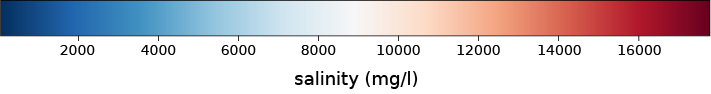
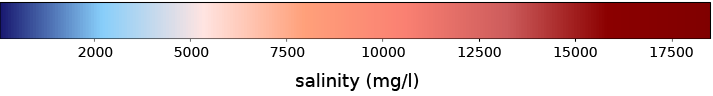
colormap update salinity concentrations
- Changed colormap (LinearSegmented colormap to shift the colors left of the center and to remove transparancy in the center for projection)
- updated colorbar figure accordingly
- cmaps and norms are now stored as a dictionary in the visualization tracker

diff --git a/game/game_visualizations.py b/game/game_visualizations.py
@@ -12,7 +12,7 @@ from PyQt5.QtGui import QFont
 
 from matplotlib.backends.backend_qtagg import FigureCanvas
 from matplotlib.figure import Figure
-from matplotlib.colors import LinearSegmentedColormap, BoundaryNorm
+from matplotlib.colors import LinearSegmentedColormap
 from pandas import to_datetime
 from functools import partial
 
@@ -71,7 +71,8 @@ class ApplicationWindow(QMainWindow):
         self.figure_layout.addWidget(self.model_canvas, stretch=1)
 
         self.colorbar_label = QLabel(self._main)
-        self.colorbar_label.setPixmap(self.salinity_colorbar_image)
+        #self.colorbar_label.setPixmap(self.salinity_colorbar_image)
+        self.colorbar_label.setPixmap(self.salinity_category_image)
         self.colorbar_label.resize(self.salinity_colorbar_image.width(), self.salinity_colorbar_image.height())
         self.figure_layout.addWidget(self.colorbar_label, alignment=Qt.AlignCenter)
 
@@ -152,12 +153,13 @@ class ApplicationWindow(QMainWindow):
         idx = self.running_simulation["time"] == t
         self.plot_data = self.running_simulation[idx]
         set_variable = self.selected_variable + "_" + self.viz_tracker.sim_type
-        self.plot_data.plot(column=set_variable, ax=self.ax, cmap="RdBu_r", markersize=150.0)
+        self.plot_data.plot(column=set_variable, ax=self.ax, cmap=self.viz_tracker.cmaps[self.selected_variable],
+                            markersize=150.0)
 
         pcs = [child for child in self.ax.get_children() if isinstance(child, matplotlib.collections.PathCollection)]
         assert len(pcs) == 1, "expected 1 pathcollection after plotting"
         self.pc = pcs[0]
-        self.pc.set_norm(self.viz_tracker.salinity_norm)
+        self.pc.set_norm(self.viz_tracker.norms[self.selected_variable])
         # code below adds a colorbar to the image, but makes the plots too slow
         #self.colorbar = ScalarMappable(self.viz_tracker.water_level_norm, cmap="Blues_r")
         #self.model_canvas.figure.colorbar(self.colorbar, ax=self.ax)
@@ -178,24 +180,8 @@ class ApplicationWindow(QMainWindow):
             self.scenario = self.viz_tracker.scenario
         if self.selected_variable != self.viz_tracker.viz_variable:
             self.selected_variable = self.viz_tracker.viz_variable
-            if self.selected_variable == "water_salinity":
-                color_map = "RdBu_r"
-                #color_map = "coolwarm"
-                norm = self.viz_tracker.salinity_norm
-            elif self.selected_variable == "water_level":
-                color_map = "viridis_r"
-                norm = self.viz_tracker.water_level_norm
-            elif self.selected_variable == "salinity_category":
-                color_map = "RdYlBu_r"
-                norm = self.viz_tracker.salinity_category_norm
-            elif self.selected_variable == "water_velocity":
-                color_map = "Spectral_r"
-                norm = self.viz_tracker.water_velocity_norm
-            elif self.selected_variable == "water_depth":
-                color_map = "Blues_r"
-                norm = self.viz_tracker.water_depth_norm
-            self.pc.set_cmap(color_map)
-            self.pc.set_norm(norm)
+            self.pc.set_cmap(self.viz_tracker.cmaps[self.selected_variable])
+            self.pc.set_norm(self.viz_tracker.norms[self.selected_variable])
             self.update_colorbars()
         t = self.viz_tracker.get_time_index()
         idx = self.running_simulation["time"] == t
@@ -403,11 +389,12 @@ class GameVisualization(QWidget):
         idx = self.running_simulation["time"] == t
         self.plot_data = self.running_simulation[idx]
         set_variable = self.selected_variable + "_" + self.viz_tracker.sim_type
-        self.plot_data.plot(column=set_variable, ax=self.ax, cmap="RdBu_r", aspect=1, markersize=200.0)
+        self.plot_data.plot(column=set_variable, ax=self.ax, cmap=self.viz_tracker.cmaps[self.selected_variable],
+                            aspect=1, markersize=200.0)
         pcs = [child for child in self.ax.get_children() if isinstance(child, matplotlib.collections.PathCollection)]
         assert len(pcs) == 1, "expected 1 pathcollection after plotting"
         self.pc = pcs[0]
-        self.pc.set_norm(self.viz_tracker.salinity_norm)
+        self.pc.set_norm(self.viz_tracker.norms[self.selected_variable])
 
         self.game_timer = self.game_canvas.new_timer(40)
         self.game_timer.add_callback(self.update_plot_model)
@@ -423,24 +410,8 @@ class GameVisualization(QWidget):
             self.running_simulation = self.game.game_output_gdf[turn_idx]
         if self.selected_variable != self.viz_tracker.viz_variable:
             self.selected_variable = self.viz_tracker.viz_variable
-            if self.selected_variable == "water_salinity":
-                color_map = "RdBu_r"
-                #color_map = "coolwarm"
-                norm = self.viz_tracker.salinity_norm
-            elif self.selected_variable == "water_level":
-                color_map = "viridis_r"
-                norm = self.viz_tracker.water_level_norm
-            elif self.selected_variable == "salinity_category":
-                color_map = "RdYlBu_r"
-                norm = self.viz_tracker.salinity_category_norm
-            elif self.selected_variable == "water_velocity":
-                color_map = "Spectral_r"
-                norm = self.viz_tracker.water_velocity_norm
-            elif self.selected_variable == "water_depth":
-                color_map = "Blues_r"
-                norm = self.viz_tracker.water_depth_norm
-            self.pc.set_cmap(color_map)
-            self.pc.set_norm(norm)
+            self.pc.set_cmap(self.viz_tracker.cmaps[self.selected_variable])
+            self.pc.set_norm(self.viz_tracker.norms[self.selected_variable])
             return
         t = self.viz_tracker.get_time_index()
         idx = self.running_simulation["time"] == t
@@ -1077,11 +1048,12 @@ class VisualizationTracker():
         self._sim_type = sim_type
         self._time_steps = time_steps
         self._time_index = starting_time
-        self._salinity_norm = salinity_range
-        self._salinity_category_norm = salinity_category
         self._inlet_to_plot = inlet_to_plot
-        #self._water_level_norm = water_level_range
-        #self._water_velocity_norm = water_velocity_range
+        self._cmaps = {"water_salinity": LinearSegmentedColormap.from_list("", [
+            "midnightblue", "lightskyblue", "mistyrose", "lightsalmon", "salmon", "indianred", "firebrick", "darkred",
+            "maroon"]),
+                       "salinity_category": "RdYlBu_r"}
+        self._norms = {"water_salinity": salinity_range, "salinity_category": salinity_category}
         return
 
     def get_time_index(self):
@@ -1112,12 +1084,6 @@ class VisualizationTracker():
     def sim_type(self):
         return self._sim_type
 
-    """
-    @property
-    def game_variable(self):
-        return self._game_variable
-    """
-
     @property
     def time_steps(self):
         return self._time_steps
@@ -1127,26 +1093,16 @@ class VisualizationTracker():
         return self._time_index
 
     @property
-    def salinity_norm(self):
-        return self._salinity_norm
-
-    @property
-    def salinity_category_norm(self):
-        return self._salinity_category_norm
-
-    @property
     def inlet_to_plot(self):
         return self._inlet_to_plot
 
-    """
     @property
-    def water_level_norm(self):
-        return self._water_level_norm
+    def cmaps(self):
+        return self._cmaps
 
     @property
-    def water_velocity_norm(self):
-        return self._water_velocity_norm
-    """
+    def norms(self):
+        return self._norms
 
     @turn.setter
     def turn(self, turn):
@@ -1173,13 +1129,6 @@ class VisualizationTracker():
     def sim_type(self, variable):
         self._sim_type = variable
         return
-
-    """
-    @game_variable.setter
-    def game_variable(self, variable):
-        self._game_variable = variable
-        return
-    """
 
     @time_steps.setter
     def time_steps(self, new_time_steps):

diff --git a/game_runfile.py b/game_runfile.py
@@ -566,7 +566,7 @@ class DMG():
             qapp = QApplication(sys.argv)
         time_steps = {1: list(sorted(set(self.model_output_gdf["time"])))}
         time_index = 0
-        starting_variable = "water_salinity"
+        starting_variable = "salinity_category"
         viz_tracker = visualizer.VisualizationTracker(
             starting_turn=self.turn-1, scenarios=self.mode["scenarios"], starting_variable=starting_variable,
             time_steps=time_steps, starting_time=time_index, salinity_range=salinity_range,
